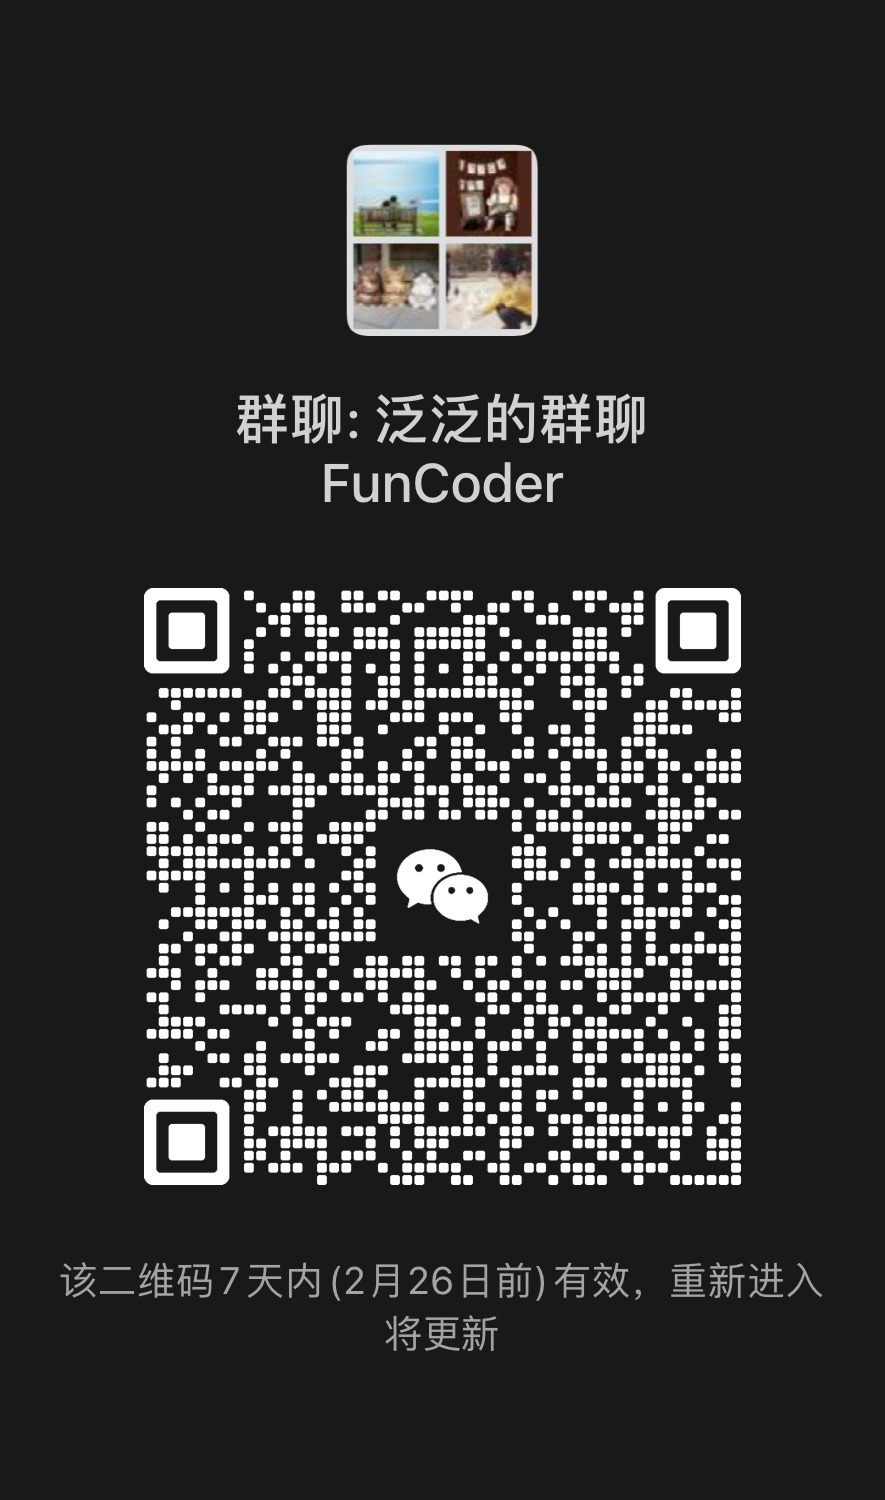
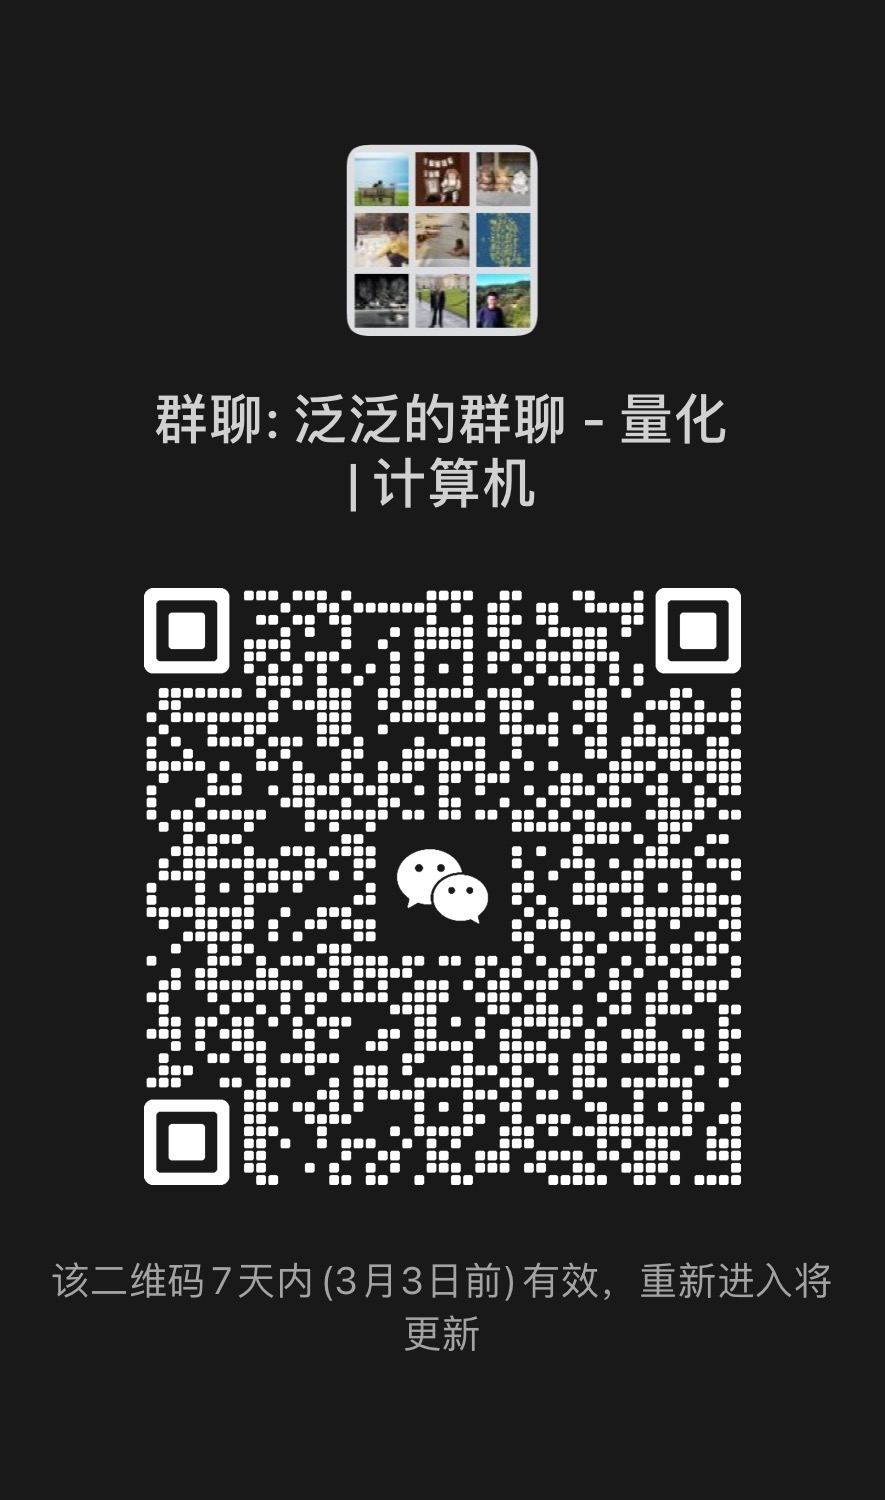
update group

diff --git a/content/en/wechat.md b/content/en/wechat.md
@@ -1,4 +1,4 @@
 
 如果提示已经过期，请稍后访问，泛泛会更新的！
 
-![微信群二维码](https://raw.githubusercontent.com/wangzhe3224/pic_repo/master/images/20230219114811.png "微信群二维码")
+![20230224151808](https://raw.githubusercontent.com/wangzhe3224/pic_repo/master/images/20230224151808.png)
